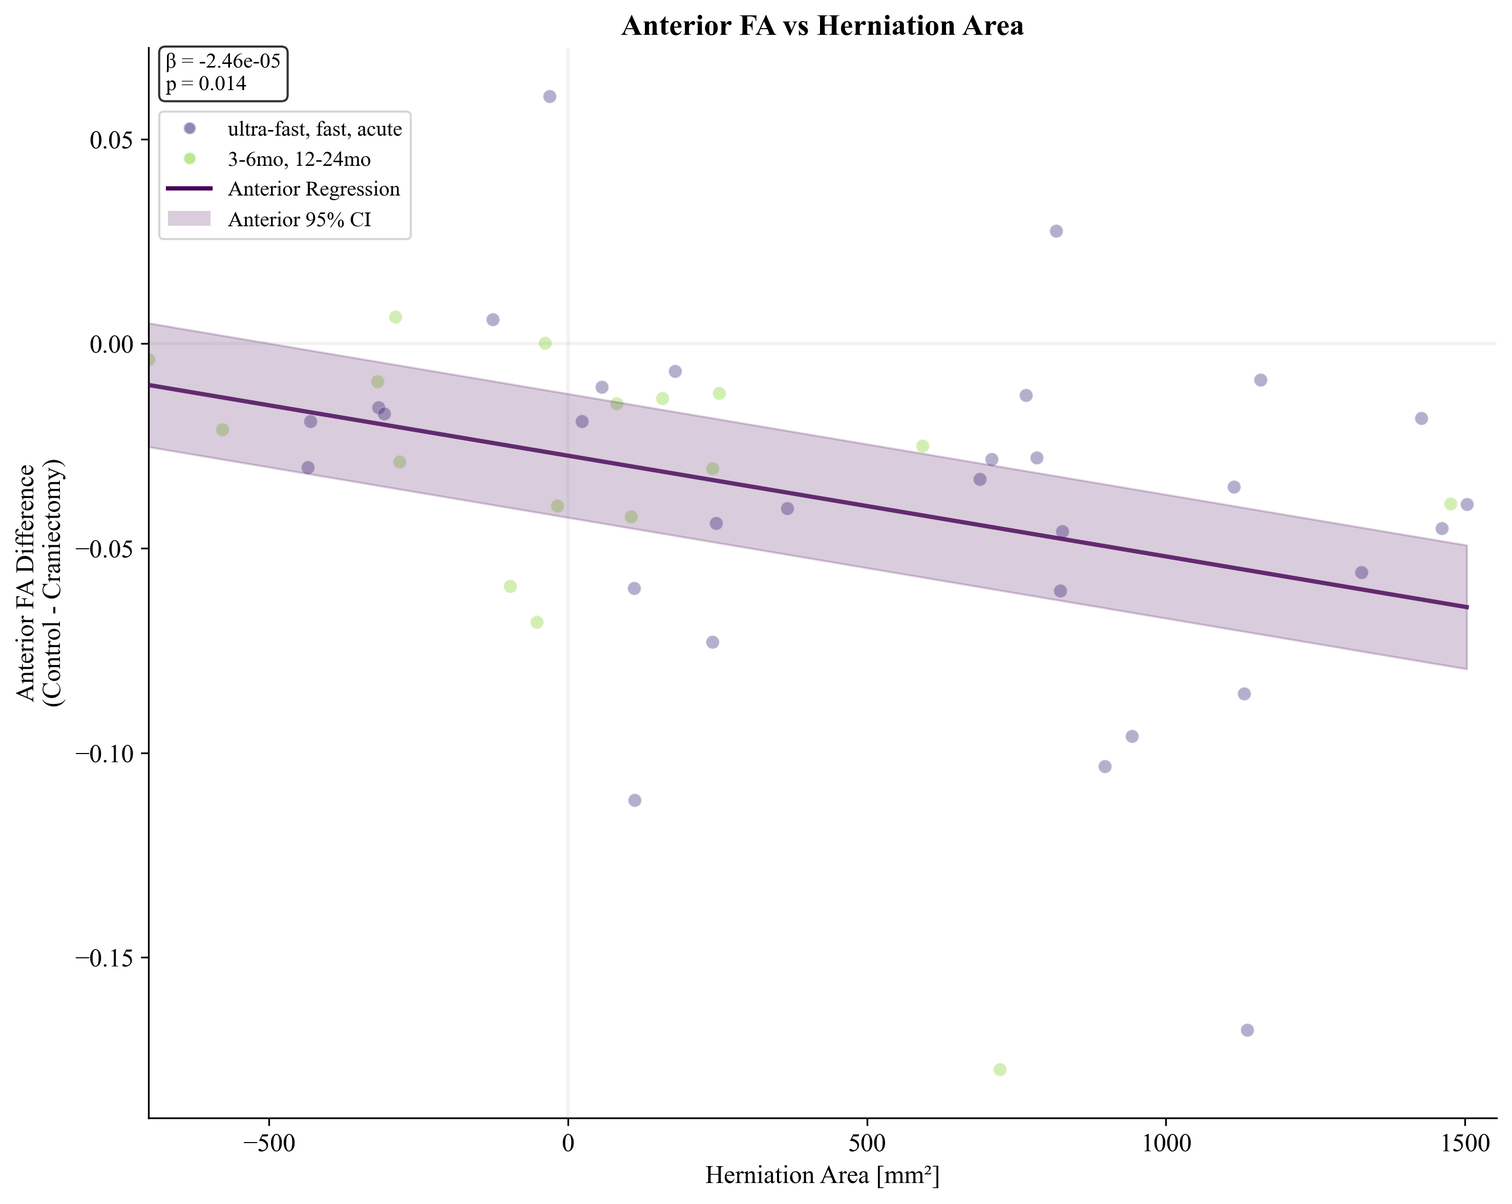
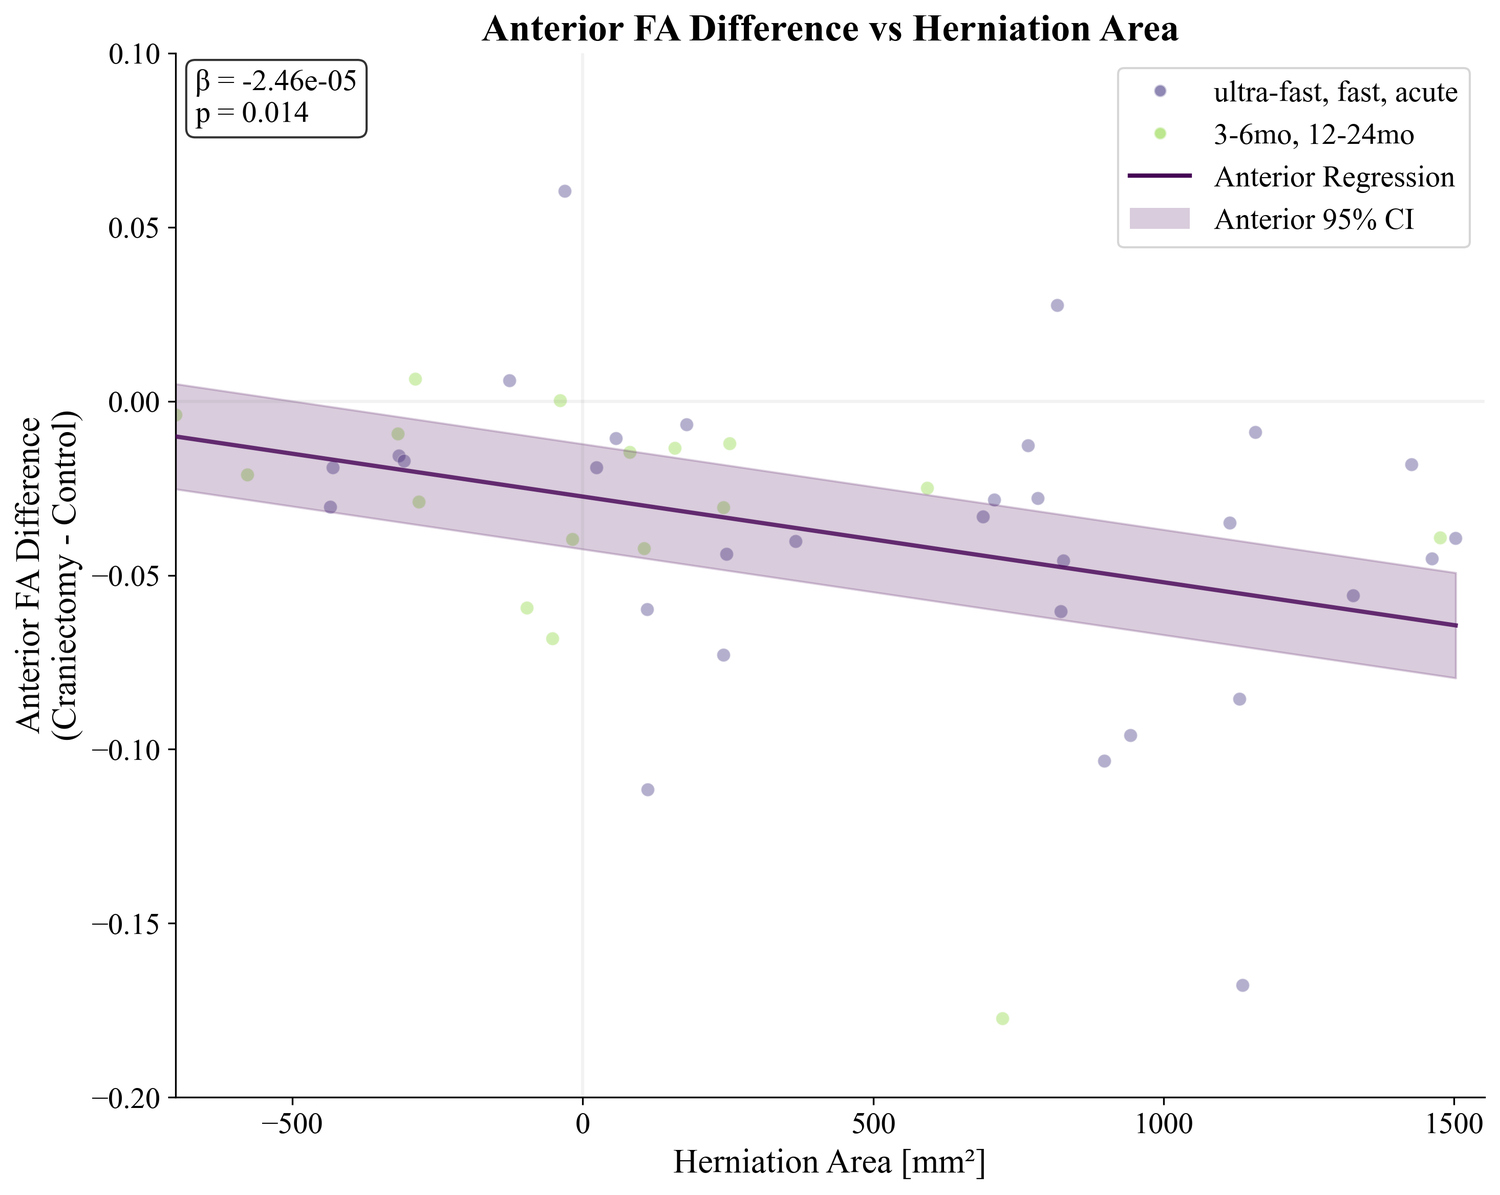
new figures

diff --git a/DTI_Processing_Scripts/dti_results_plotting_main.py b/DTI_Processing_Scripts/dti_results_plotting_main.py
@@ -377,7 +377,7 @@ def create_timepoint_boxplot_LME_dti_old(df, parameter, result, timepoints=['ult
     
     # Set labels and title
     ax.set_xlabel('Timepoint', fontsize=12)
-    ax.set_ylabel(f'{param_name} Difference (Control - Craniectomy){unit}', fontsize=12)
+    ax.set_ylabel(f'{param_name} Difference (Craniectomy - Control){unit}', fontsize=12)
     ax.set_title(f'{param_name} Difference by Timepoint', fontsize=14, fontweight='bold')
     
     # Add grid for y-axis only
@@ -722,7 +722,7 @@ def create_timepoint_boxplot_LME_dti(df, parameter, result, timepoints=['ultra-f
     ax.set_xlabel('Timepoint', fontsize=12)
     if parameter.lower() == 'md':
         ax.set_ylim(-0.3,0.15)
-    ax.set_ylabel(f'{param_name} Difference (Control - Craniectomy){unit}', fontsize=12)
+    ax.set_ylabel(f'{param_name} Difference (Craniectomy - Control){unit}', fontsize=12)
     ax.set_title(f'{param_name} Difference by Timepoint', fontsize=14, fontweight='bold')
     
     # Add grid for y-axis only
@@ -892,7 +892,7 @@ def create_fa_area_correlation_plot(df, show_timepoints=True):
                 transform=ax1.transAxes, verticalalignment='top',
                 bbox=dict(boxstyle='round', facecolor='white', alpha=0.8))
     
-    ax1.set_xlabel('FA Anterior Difference\n(Control - Craniectomy)', fontsize=12)
+    ax1.set_xlabel('FA Anterior Difference\n(Craniectomy - Control)', fontsize=12)
     ax1.set_ylabel('Herniation Area Difference [mm²]', fontsize=12)
     ax1.set_title('FA Anterior vs Herniation Area', fontsize=14, fontweight='bold')
     ax1.grid(True, alpha=0.3)
@@ -927,7 +927,7 @@ def create_fa_area_correlation_plot(df, show_timepoints=True):
                 transform=ax2.transAxes, verticalalignment='top',
                 bbox=dict(boxstyle='round', facecolor='white', alpha=0.8))
     
-    ax2.set_xlabel('FA Posterior Difference\n(Control - Craniectomy)', fontsize=12)
+    ax2.set_xlabel('FA Posterior Difference\n(Craniectomy - Control)', fontsize=12)
     ax2.set_ylabel('Herniation Area Difference [mm²]', fontsize=12)
     ax2.set_title('FA Posterior vs Herniation Area', fontsize=14, fontweight='bold')
     ax2.grid(True, alpha=0.3)
@@ -978,7 +978,7 @@ def create_fa_area_model_visualization(df, model_results):
     # Add confidence interval if available
     # y_pred_ci = ... (calculate from model if needed)
     
-    ax.set_xlabel('FA Anterior Difference (Control - Craniectomy)', fontsize=12)
+    ax.set_xlabel('FA Anterior Difference (Craniectomy - Control)', fontsize=12)
     ax.set_ylabel('Herniation Area Difference [mm²]', fontsize=12)
     ax.set_title('Linear Mixed Effects Model: FA-Area Correlation', fontsize=14, fontweight='bold')
     ax.grid(True, alpha=0.3)
@@ -1007,6 +1007,15 @@ def create_area_predicts_fa_plot(df, result4, result5, show_combined=True, timep
     
     # Set publication style 
     set_publication_style()
+
+    plt.rcParams.update({
+        'font.size': 14,           # Base font size
+        'axes.titlesize': 18,      # Title font size
+        'axes.labelsize': 16,      # Axis label font size
+        'xtick.labelsize': 14,     # X-axis tick label size
+        'ytick.labelsize': 14,     # Y-axis tick label size
+        'legend.fontsize': 14      # Legend font size
+    })
 
     # set up timepoint colours
     palette = sns.color_palette("viridis", len(timepoints))
@@ -1112,18 +1121,19 @@ def create_area_predicts_fa_plot(df, result4, result5, show_combined=True, timep
             #     verticalalignment='bottom', horizontalalignment='right', fontsize=10,
             #     bbox=dict(boxstyle='round', facecolor='white', alpha=0.8))
 
-            ax.text(0.0125, 0.995, stats_text, transform=ax.transAxes, 
-                verticalalignment='top', horizontalalignment='left', fontsize=10,
-                bbox=dict(boxstyle='round', facecolor='white', alpha=0.8))
+            ax.text(0.015, 0.985, stats_text, transform=ax.transAxes, 
+                verticalalignment='top', horizontalalignment='left', 
+                bbox=dict(boxstyle='round', facecolor='white', alpha=0.8))#fontsize=10,
         
         # Formatting
-        ax.set_xlabel('Herniation Area [mm²]', fontsize=14)
-        ax.set_ylabel('FA Difference\n(Control - Craniectomy)', fontsize=14)
-        ax.set_title('Herniation Area Predicts FA Changes', fontsize=16, fontweight='bold')
+        ax.set_xlabel('Herniation Area [mm²]') #, fontsize=14
+        ax.set_ylabel('FA Difference\n(Craniectomy - Control)')#, fontsize=14
+        ax.set_title('FA Difference vs. Herniation', fontweight='bold')#, fontsize=16
         ax.grid(False) #alpha=0.3
         ax.axhline(y=0, color='gray', linestyle='-', alpha=0.1)
         ax.axvline(x=0, color='gray', linestyle='-', alpha=0.1)
         ax.set_xlim(df['area_diff'].min(), df['area_diff'].max() + 50)
+        ax.set_ylim(-0.2,0.1)
 
         # ax.legend(fontsize=12)
 
@@ -1142,8 +1152,8 @@ def create_area_predicts_fa_plot(df, result4, result5, show_combined=True, timep
             plt.Rectangle((0,0),1,1, facecolor='#73D055', alpha=0.1, label='Posterior 95% CI')
         ]
 
-        ax.legend(handles=legend_elements, fontsize=10, loc='upper left', 
-                  bbox_to_anchor=(0, 0.95))
+        ax.legend(handles=legend_elements,  loc='upper right', 
+                  )#fontsize=10,bbox_to_anchor=(0, 0.95)
         
     else:
         # Separate subplots - create two separate figures
@@ -1192,19 +1202,20 @@ def create_area_predicts_fa_plot(df, result4, result5, show_combined=True, timep
             
             # Add statistics
             stats_text = f'β = {slope_ant:.2e}\np = {result4.pvalues["area_diff"]:.3f}'
-            ax1.text(0.0125, 0.995, stats_text, transform=ax1.transAxes, 
-                verticalalignment='top', horizontalalignment='left', fontsize=10,
-                bbox=dict(boxstyle='round', facecolor='white', alpha=0.8))
+            ax1.text(0.015, 0.985, stats_text, transform=ax1.transAxes, 
+                verticalalignment='top', horizontalalignment='left',
+                bbox=dict(boxstyle='round', facecolor='white', alpha=0.8)) #, fontsize=10,
 
                     
         
-        ax1.set_xlabel('Herniation Area [mm²]', fontsize=12)
-        ax1.set_ylabel('Anterior FA Difference\n(Control - Craniectomy)', fontsize=12)
-        ax1.set_title('Anterior FA vs Herniation Area', fontsize=14, fontweight='bold')
+        ax1.set_xlabel('Herniation Area [mm²]')#, fontsize=12
+        ax1.set_ylabel('Anterior FA Difference\n(Craniectomy - Control)')#, fontsize=12
+        ax1.set_title('Anterior FA Difference vs Herniation Area', fontweight='bold') #, fontsize=14
         ax1.grid(False)
         ax1.axhline(y=0, color='gray', linestyle='-', alpha=0.1)
         ax1.axvline(x=0, color='gray', linestyle='-', alpha=0.1)
         ax1.set_xlim(df['area_diff'].min(), df['area_diff'].max() + 50)
+        ax1.set_ylim(-0.2,0.1)
         
         # Create legend for timepoints and regression line
         from matplotlib.lines import Line2D
@@ -1217,8 +1228,8 @@ def create_area_predicts_fa_plot(df, result4, result5, show_combined=True, timep
             Line2D([0], [0], color='#440154', linewidth=2, label='Anterior Regression'),
             plt.Rectangle((0,0),1,1, facecolor='#440154', alpha=0.2, label='Anterior 95% CI')
         ]
-        ax1.legend(handles=legend_elements, fontsize=10, loc='upper left', 
-                  bbox_to_anchor=(0, 0.95))
+        ax1.legend(handles=legend_elements, loc='upper right', # fontsize=10,
+                  ) #bbox_to_anchor=(0, 0.95)
         
         plt.tight_layout()
         
@@ -1267,17 +1278,18 @@ def create_area_predicts_fa_plot(df, result4, result5, show_combined=True, timep
             
             # Add statistics
             stats_text = f'β = {slope_post:.2e}\np = {result5.pvalues["area_diff"]:.3f}'
-            ax2.text(0.0125, 0.995, stats_text, transform=ax2.transAxes, 
-                verticalalignment='top', horizontalalignment='left', fontsize=10,
+            ax2.text(0.015, 0.985, stats_text, transform=ax2.transAxes, 
+                verticalalignment='top', horizontalalignment='left', # fontsize=10,
                 bbox=dict(boxstyle='round', facecolor='white', alpha=0.8))
         
-        ax2.set_xlabel('Herniation Area [mm²]', fontsize=12)
-        ax2.set_ylabel('Posterior FA Difference\n(Control - Craniectomy)', fontsize=12)
-        ax2.set_title('Posterior FA vs Herniation Area', fontsize=14, fontweight='bold')
+        ax2.set_xlabel('Herniation Area [mm²]') #, fontsize=12
+        ax2.set_ylabel('Posterior FA Difference\n(Craniectomy - Control)') #, fontsize=12
+        ax2.set_title('Posterior FA Difference vs Herniation Area', fontweight='bold') # fontsize=14,
         ax2.grid(False)
         ax2.axhline(y=0, color='gray', linestyle='-', alpha=0.1)
         ax2.axvline(x=0, color='gray', linestyle='-', alpha=0.1)
         ax2.set_xlim(df['area_diff'].min(), df['area_diff'].max() + 50)
+        ax2.set_ylim(-0.2,0.1)
         
         # Create legend for timepoints and regression line
         legend_elements = [
@@ -1289,8 +1301,8 @@ def create_area_predicts_fa_plot(df, result4, result5, show_combined=True, timep
             Line2D([0], [0], color='#73D055', linewidth=2, label='Posterior Regression'),
             plt.Rectangle((0,0),1,1, facecolor='#73D055', alpha=0.2, label='Posterior 95% CI')
         ]
-        ax2.legend(handles=legend_elements, fontsize=10, loc='upper left', 
-                  bbox_to_anchor=(0, 0.95))
+        ax2.legend(handles=legend_elements, loc='upper right', #fontsize=10,
+                  ) #bbox_to_anchor=(0, 0.925)
         
         plt.tight_layout()
         
@@ -1332,6 +1344,16 @@ def create_area_predicts_md_plot(df, result4, result5, show_combined=True, timep
     # Set publication style 
     set_publication_style()
 
+    plt.rcParams.update({
+        'font.size': 14,           # Base font size
+        'axes.titlesize': 18,      # Title font size
+        'axes.labelsize': 16,      # Axis label font size
+        'xtick.labelsize': 14,     # X-axis tick label size
+        'ytick.labelsize': 14,     # Y-axis tick label size
+        'legend.fontsize': 12      # Legend font size
+    })
+
+
     # set up timepoint colours
     palette = sns.color_palette("viridis", len(timepoints))
     color_mapping = dict(zip(timepoints, palette))
@@ -1347,10 +1369,15 @@ def create_area_predicts_md_plot(df, result4, result5, show_combined=True, timep
         # Plot anterior data (circles) - colored by timepoint
         anterior_data = df.dropna(subset=['md_anterior_diff', 'area_diff'])
         for tp in timepoints:
-            tp_data = anterior_data[anterior_data['timepoint'] == tp]
+            tp_data = posterior_data[posterior_data['timepoint'] == tp]
             if not tp_data.empty:
-                ax.scatter(tp_data['area_diff'], tp_data['md_anterior_diff'], 
-                        marker='o', s=40, alpha=0.4, color=color_mapping[tp], 
+                if tp in timepoints[:3]:
+                    plot_color = palette[0]
+                else:
+                    plot_color = palette[-1]
+                    
+                ax2.scatter(tp_data['area_diff'], tp_data['fa_posterior_diff'],
+                        marker='o', s=40, alpha=0.4, color=plot_color,
                         edgecolors='white', linewidth=0.5)
         
         # Plot posterior data (squares) - colored by timepoint
@@ -1358,8 +1385,13 @@ def create_area_predicts_md_plot(df, result4, result5, show_combined=True, timep
         for tp in timepoints:
             tp_data = posterior_data[posterior_data['timepoint'] == tp]
             if not tp_data.empty:
-                ax.scatter(tp_data['area_diff'], tp_data['md_posterior_diff'],
-                        marker='s', s=40, alpha=0.4, color=color_mapping[tp],
+                if tp in timepoints[:3]:
+                    plot_color = palette[0]
+                else:
+                    plot_color = palette[-1]
+                    
+                ax2.scatter(tp_data['area_diff'], tp_data['fa_posterior_diff'],
+                        marker='s', s=40, alpha=0.4, color=plot_color,
                         edgecolors='white', linewidth=0.5)
         
         # Get area range for regression lines
@@ -1420,8 +1452,8 @@ def create_area_predicts_md_plot(df, result4, result5, show_combined=True, timep
         
         # Formatting
         ax.set_xlabel('Herniation Area [mm²]', fontsize=14)
-        ax.set_ylabel('MD Difference\n(Control - Craniectomy) [mm²/s]', fontsize=14)
-        ax.set_title('Herniation Area Predicts MD Changes', fontsize=16, fontweight='bold')
+        ax.set_ylabel('MD Difference\n(Craniectomy - Control) [mm²/s]')
+        ax.set_title('Herniation Area Predicts MD Changes', fontweight='bold')
         ax.grid(False)
         ax.axhline(y=0, color='gray', linestyle='-', alpha=0.1)
         ax.axvline(x=0, color='gray', linestyle='-', alpha=0.1)
@@ -1431,9 +1463,10 @@ def create_area_predicts_md_plot(df, result4, result5, show_combined=True, timep
         # Create legend for timepoints and regression lines
         from matplotlib.lines import Line2D
         legend_elements = [
-            # Timepoint legend entries
-            Line2D([0], [0], marker='o', color='w', markerfacecolor=color_mapping[tp], 
-                markersize=6, alpha=0.6, label=tp) for tp in timepoints
+            Line2D([0], [0], marker='s', color='w', markerfacecolor=palette[0], 
+                markersize=6, alpha=0.6, label='ultra-fast, fast, acute'),
+            Line2D([0], [0], marker='s', color='w', markerfacecolor=palette[-1], 
+                markersize=6, alpha=0.6, label='3-6mo, 12-24mo')
         ] + [
             # Regression line legend entries
             Line2D([0], [0], color='#31688E', linewidth=1.5, label='Anterior Regression'),
@@ -1454,10 +1487,15 @@ def create_area_predicts_md_plot(df, result4, result5, show_combined=True, timep
         
         # Plot anterior data (circles) - colored by timepoint
         for tp in timepoints:
-            tp_data = anterior_data[anterior_data['timepoint'] == tp]
+            tp_data = posterior_data[posterior_data['timepoint'] == tp]
             if not tp_data.empty:
-                ax1.scatter(tp_data['area_diff'], tp_data['md_anterior_diff'], 
-                        marker='o', s=40, alpha=0.4, color=color_mapping[tp], 
+                if tp in timepoints[:3]:
+                    plot_color = palette[0]
+                else:
+                    plot_color = palette[-1]
+                    
+                ax2.scatter(tp_data['area_diff'], tp_data['fa_posterior_diff'],
+                        marker='o', s=40, alpha=0.4, color=plot_color,
                         edgecolors='white', linewidth=0.5)
         
         # Get area range for regression lines
@@ -1487,11 +1525,11 @@ def create_area_predicts_md_plot(df, result4, result5, show_combined=True, timep
             # Add statistics
             stats_text = f'β = {slope_ant:.2e}\np = {result4.pvalues["area_diff"]:.3f}'
             ax1.text(0.0125, 0.995, stats_text, transform=ax1.transAxes, 
-                verticalalignment='top', horizontalalignment='left', fontsize=10,
-                bbox=dict(boxstyle='round', facecolor='white', alpha=0.8))
+                verticalalignment='top', horizontalalignment='left', 
+                bbox=dict(boxstyle='round', facecolor='white', alpha=0.8)) #fontsize=14
         
         ax1.set_xlabel('Herniation Area [mm²]', fontsize=12)
-        ax1.set_ylabel('Anterior MD Difference\n(Control - Craniectomy) [mm²/s]', fontsize=12)
+        ax1.set_ylabel('Anterior MD Difference\n(Craniectomy - Control) [mm²/s]', fontsize=12)
         ax1.set_title('Anterior MD vs Herniation Area', fontsize=14, fontweight='bold')
         ax1.grid(False)
         ax1.axhline(y=0, color='gray', linestyle='-', alpha=0.1)
@@ -1502,8 +1540,10 @@ def create_area_predicts_md_plot(df, result4, result5, show_combined=True, timep
         # Create legend for timepoints and regression line
         from matplotlib.lines import Line2D
         legend_elements = [
-            Line2D([0], [0], marker='o', color='w', markerfacecolor=color_mapping[tp], 
-                markersize=6, alpha=0.6, label=tp) for tp in timepoints
+            Line2D([0], [0], marker='s', color='w', markerfacecolor=palette[0], 
+                markersize=6, alpha=0.6, label='ultra-fast, fast, acute'),
+            Line2D([0], [0], marker='s', color='w', markerfacecolor=palette[-1], 
+                markersize=6, alpha=0.6, label='3-6mo, 12-24mo')
         ] + [
             Line2D([0], [0], color='#31688E', linewidth=2, label='Anterior Regression'),
             plt.Rectangle((0,0),1,1, facecolor='#31688E', alpha=0.2, label='Anterior 95% CI')
@@ -1526,8 +1566,13 @@ def create_area_predicts_md_plot(df, result4, result5, show_combined=True, timep
         for tp in timepoints:
             tp_data = posterior_data[posterior_data['timepoint'] == tp]
             if not tp_data.empty:
-                ax2.scatter(tp_data['area_diff'], tp_data['md_posterior_diff'],
-                        marker='s', s=40, alpha=0.4, color=color_mapping[tp],
+                if tp in timepoints[:3]:
+                    plot_color = palette[0]
+                else:
+                    plot_color = palette[-1]
+                    
+                ax2.scatter(tp_data['area_diff'], tp_data['fa_posterior_diff'],
+                        marker='s', s=40, alpha=0.4, color=plot_color,
                         edgecolors='white', linewidth=0.5)
         
         if result5 is not None:
@@ -1558,7 +1603,7 @@ def create_area_predicts_md_plot(df, result4, result5, show_combined=True, timep
                 bbox=dict(boxstyle='round', facecolor='white', alpha=0.8))
         
         ax2.set_xlabel('Herniation Area [mm²]', fontsize=12)
-        ax2.set_ylabel('Posterior MD Difference\n(Control - Craniectomy) [mm²/s]', fontsize=12)
+        ax2.set_ylabel('Posterior MD Difference\n(Craniectomy - Control) [mm²/s]', fontsize=12)
         ax2.set_title('Posterior MD vs Herniation Area', fontsize=14, fontweight='bold')
         ax2.grid(False)
         ax2.axhline(y=0, color='gray', linestyle='-', alpha=0.1)
@@ -1568,8 +1613,10 @@ def create_area_predicts_md_plot(df, result4, result5, show_combined=True, timep
         
         # Create legend for timepoints and regression line
         legend_elements = [
-            Line2D([0], [0], marker='s', color='w', markerfacecolor=color_mapping[tp], 
-                markersize=6, alpha=0.6, label=tp) for tp in timepoints
+            Line2D([0], [0], marker='s', color='w', markerfacecolor=palette[0], 
+                markersize=6, alpha=0.6, label='ultra-fast, fast, acute'),
+            Line2D([0], [0], marker='s', color='w', markerfacecolor=palette[-1], 
+                markersize=6, alpha=0.6, label='3-6mo, 12-24mo')
         ] + [
             Line2D([0], [0], color='#FDE725', linewidth=2, label='Posterior Regression'),
             plt.Rectangle((0,0),1,1, facecolor='#FDE725', alpha=0.2, label='Posterior 95% CI')
@@ -1725,7 +1772,7 @@ def create_timepoint_boxplot_recategorised_dti_old(df, parameter, timepoints=['u
 
     # Set labels and title
     ax.set_xlabel('Timepoint', fontsize=12)
-    ax.set_ylabel(f'{param_name} Difference (Control - Craniectomy){unit}', fontsize=12)
+    ax.set_ylabel(f'{param_name} Difference (Craniectomy - Control){unit}', fontsize=12)
     ax.set_title(f'{param_name} Difference by Timepoint', fontsize=14, fontweight='bold')
     
     # Add grid for y-axis only
@@ -2317,7 +2364,7 @@ def jt_test(df, parameter='fa', regions=(2,10), save_path=None, alternative='inc
     # Add plot elements
     ax.axhline(y=0, color='gray', linestyle='--', alpha=0.5)
     ax.set_xlabel("Ring Number", fontsize=14)
-    ax.set_ylabel(f"{parameter.upper()} Difference (Control - Craniectomy)", fontsize=14)
+    ax.set_ylabel(f"{parameter.upper()} Difference (Craniectomy - Control)", fontsize=14)
     ax.set_xticks(ring_numbers)
     ax.grid(True, alpha=0.3)
     ax.legend(loc='upper right')
@@ -3583,7 +3630,7 @@ if __name__ == '__main__':
     # LMER equation with Patient as random effect, Timepoint as fixed effect, 'Region' as a covariate. 
     # Y_{ijk} = \beta_0 + \sum_{t=1}^{T-1} \beta_{1t} \cdot \text{Timepoint}_{jt} + \beta_2 \cdot \text{Region}_k + u_i + \varepsilon_{ijk}
 
-    # $Y_{ijk}$: FA difference (control - craniectomy) for subject $i$, at timepoint $j$, in region $k$  
+    # $Y_{ijk}$: FA difference (Craniectomy - Control) for subject $i$, at timepoint $j$, in region $k$  
     # $\beta_0$: Intercept (mean FA difference at reference timepoint and region)  
     # $\beta_{1t}$: Coefficient for timepoint $t$ (excluding the reference level)  
     # $\text{Timepoint}_{jt}$: Indicator variable (1 if observation is at timepoint $t$, else 0)  
@@ -3703,10 +3750,10 @@ if __name__ == '__main__':
     # # LINEAR FIXED EFFECTS MODEL WITH COMBI DATA AND CLUSTERED SEs
     # # H_0: There is no statistically significant difference between
     # # FA in Control vs. Craniectomy for anterior and posterior ROIs.
-    # # i.e. H_0: FA_diff = FA_{control} - FA_{craniectomy} = 0
+    # # i.e. H_0: FA_diff = FA_{craniectomy} - FA_{control} = 0
     # # Fixed effects equation with Timepoint and Region as covariates.
     # # Y_{jk} = \beta_0 + \sum_{t=1}^{T-1} \beta_{1t} \cdot \text{Timepoint}_{jt} + \beta_2 \cdot \text{Region}_k + \varepsilon_{jk}
-    # # $Y_{jk}$: FA difference (control - craniectomy) at timepoint $j$, in region $k$
+    # # $Y_{jk}$: FA difference (Craniectomy - Control) at timepoint $j$, in region $k$
     # # $\beta_0$: Intercept (mean FA difference at reference timepoint and region)
     # # $\beta_{1t}$: Coefficient for timepoint $t$ (excluding the reference level)
     # # $\text{Timepoint}_{jt}$: Indicator variable (1 if observation is at timepoint $t$, else 0)
@@ -4122,10 +4169,10 @@ if __name__ == '__main__':
     # # LINEAR FIXED EFFECTS MODEL WITH COMBI DATA AND CLUSTERED SEs
     # # H_0: There is no statistically significant difference between
     # # MD in Control vs. Craniectomy for anterior and posterior ROIs.
-    # # i.e. H_0: MD_diff = MD_{control} - MD_{craniectomy} = 0
+    # # i.e. H_0: MD_diff = MD_{craniectomy} - MD_{control} = 0
     # # Fixed effects equation with Timepoint and Region as covariates.
     # # Y_{jk} = \beta_0 + \sum_{t=1}^{T-1} \beta_{1t} \cdot \text{Timepoint}_{jt} + \beta_2 \cdot \text{Region}_k + \varepsilon_{jk}
-    # # $Y_{jk}$: MD difference (control - craniectomy) at timepoint $j$, in region $k$
+    # # $Y_{jk}$: MD difference (craniectomy - control) at timepoint $j$, in region $k$
     # # $\beta_0$: Intercept (mean MD difference at reference timepoint and region)
     # # $\beta_{1t}$: Coefficient for timepoint $t$ (excluding the reference level)
     # # $\text{Timepoint}_{jt}$: Indicator variable (1 if observation is at timepoint $t$, else 0)
